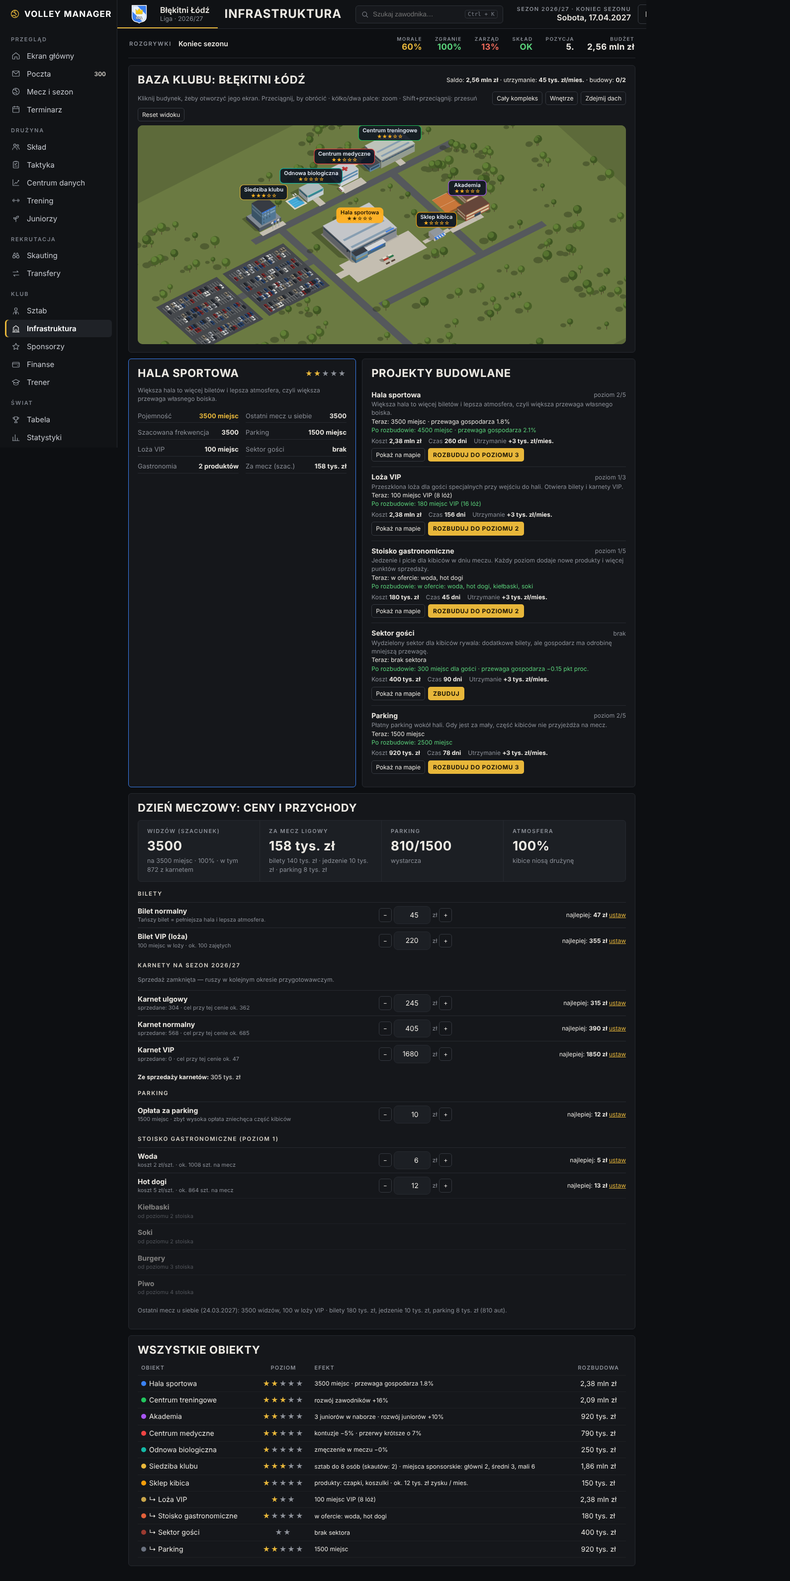
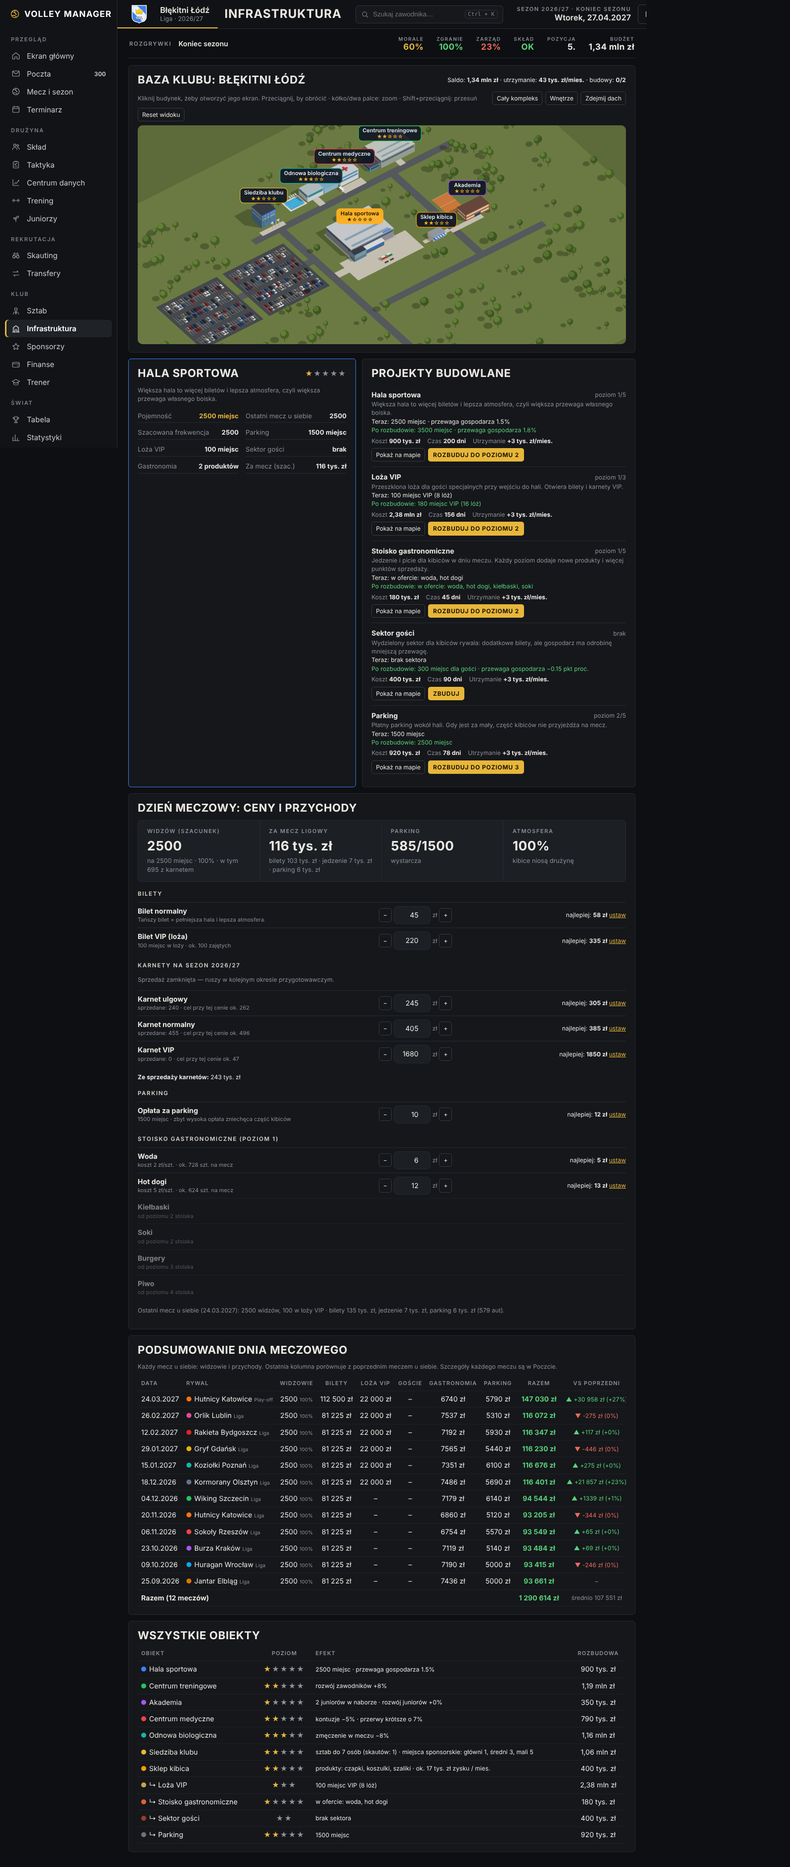
Podsumowanie dnia meczowego: mail po każdym meczu u siebie z porównaniem do poprzedniego oraz tabela meczów w Finansach i przy hali
Claude-Session: https://claude.ai/code/session_01CgYLVwwkhwgT5nMdfUNKpe

diff --git a/index.html b/index.html
@@ -557,6 +557,7 @@ small .pt,.mut .pt{font-size:9px;padding:2px 5px;min-width:26px}
 .fmws.one{grid-template-columns:1fr}.fml>.fmw,.fmr>.card{margin-top:10px}
 .fmr .fmpt-t{font-size:11px;table-layout:fixed}.fmr .fmpt-t th,.fmr .fmpt-t td{padding-left:1px;padding-right:1px}.fmr .fmpt-t th:first-child,.fmr .fmpt-t td:first-child{width:31%}.fmr .fmpt-t th:nth-child(3),.fmr .fmpt-t td:nth-child(3){width:15%}.fmr .fmpt-t th{font-size:9.5px}.fmr .fmpt-t .l{max-width:none}
 .fmz .pt,.fmsp .pt{font-size:8px;padding:1px 3px;min-width:0;letter-spacing:.02em}
+.mdt td,.mdt th{white-space:nowrap}.mdt td small{font-size:10px}
 </style></head><body><div id="app"></div>
 <script>
 'use strict';
@@ -1842,7 +1843,7 @@ function financeView(){
    <tr><td class="l">Prawa TV (${fmt(TV_ROUND)} za kolejkę)</td><td class="good">+${fmt(TV_ROUND*22)}</td></tr>
    <tr><td class="l">Mecze u siebie: bilety, jedzenie, parking (ok. ${fmt(md.tot)} za mecz)</td><td class="good">~ +${fmt(md.tot*11)}</td></tr>${kh?`<tr><td class="l">Karnety (sprzedane w tym sezonie)</td><td class="good">+${fmt(kh)}</td></tr>`:''}
    <tr><td class="l"><b>Prognoza bilansu (bez transferów i nagród)</b></td><td class="${proj<0?'bad':'good'}"><b>${proj>=0?'+':''}${fmt(proj)}</b></td></tr></tbody></table>
-   ${spFree?`<p class="small" style="color:var(--acc)">Masz ${spFree} wolnych miejsc dla sponsorów — podpisz umowy w zakładce <button class="link" onclick="go('sponsorzy')">Sponsorzy</button>, żeby poprawić bilans.</p>`:''}<p class="mut small">Pensje i sponsorzy rozliczają się co miesiąc (1. dnia), prawa TV co kolejkę ligową, bilety po każdym meczu u siebie. Nagrody za miejsce w sezonie: od 50 tys. do 1 mln zł. Lepsze wyniki podnoszą renomę, a ta podnosi sponsorów i frekwencję.</p></div>${pricesCard()}
+   ${spFree?`<p class="small" style="color:var(--acc)">Masz ${spFree} wolnych miejsc dla sponsorów — podpisz umowy w zakładce <button class="link" onclick="go('sponsorzy')">Sponsorzy</button>, żeby poprawić bilans.</p>`:''}<p class="mut small">Pensje i sponsorzy rozliczają się co miesiąc (1. dnia), prawa TV co kolejkę ligową, bilety po każdym meczu u siebie. Nagrody za miejsce w sezonie: od 50 tys. do 1 mln zł. Lepsze wyniki podnoszą renomę, a ta podnosi sponsorów i frekwencję.</p></div>${pricesCard()}${mdTableCard()}
   <div class="card"><h2>Sezon ${sLabel(S().n)}</h2><table class="cmp"><tbody>${row(f.sea)}</tbody></table>${f.prev?`<h3>Poprzedni sezon</h3><table class="cmp"><tbody>${row(f.prev)}</tbody></table>`:''}</div>
   <div class="card"><h2>Historia operacji</h2>${f.log.length?f.log.slice(0,30).map(x=>`<div class="res row"><span class="mut small">${x.d?fmtDMY(x.d):''}</span> ${esc(x.t)}<span class="sp"></span><b class="${x.a<0?'bad':'good'}">${x.a>=0?'+':''}${fmt(x.a)}</b></div>`).join(''):'<p class="mut">Brak operacji.</p>'}</div>`;
 }
@@ -3404,6 +3405,7 @@ function mailBodyHtml(m){const b=m.b||{};
   if(typeof sponsMailHtml==='function'&&/^(spons|spexp)$/.test(b.type))return sponsMailHtml(m);
   if(b.type==='offer')return offerMailHtml(m);
   if(b.type==='fin')return finMailHtml(b);
+  if(b.type==='md'&&typeof mdMailHtml==='function')return mdMailHtml(b);
   return `<p class="mtext">${esc(b.x||m.s)}</p>`;}
 function matchMailHtml(b){const T=i=>TEAMS[i];const h=b.home?b.me:b.op,a=b.home?b.op:b.me;const sw=b.home?b.sw:[b.sw[1],b.sw[0]];const sets=b.sets.map(s=>b.home?s:[s[1],s[0]]);
   const st=(l,x,y)=>`<tr><td class="l">${l}</td><td><b>${x}</b></td><td><b>${y}</b></td></tr>`;const pc2=(k,n)=>n?Math.round(k/n*100)+'%':'–';
@@ -3724,12 +3726,33 @@ function matchday(k,att,opp,est,ov){const e=ECO(),inf=myInfra(),rep=SAVE.ai[SAVE
   const orep=opp!=null&&SAVE.ai[opp]?SAVE.ai[opp].rep:50;const gs=guestSeats(inf.gosc);
   const gAtt=gs?Math.round(Math.min(gs,(60+orep*4)*clamp(Math.pow(refPrice(SAVE.team)/Math.max(5,tix),1.2),0.2,1.6)*k*(est?1:0.8+R()*0.4))):0;const guests=gAtt*tix;
   const T=att+vAtt+gAtt;const pp=ov.park!=null?ov.park:e.park;
-  const cars=Math.round(Math.min(parkSpots(inf.park),T*0.3*clamp(1.25-0.05*pp,0.1,1.2)));const parking=cars*pp;
+  const cars=Math.round(Math.min(parkSpots(inf.park),T*0.3*clamp(1.25-0.05*pp,0.1,1.2)*(est?1:0.9+R()*0.2)));const parking=cars*pp;
   const gl=[];let gas=0;const sm=0.7+0.1*inf.gastro;
-  for(const [key,n,lv,ref,cost,rate] of GAS_PR){if(inf.gastro<lv)continue;const pr=ov.gas&&ov.gas[key]!=null?ov.gas[key]:e.gas[key];const q=Math.round(T*rate*sm*clamp(Math.pow(ref/Math.max(1,pr),1.6),0.05,2.5));const pf=q*(pr-cost);gl.push({key,n,q,pr,pf});gas+=pf;}
+  for(const [key,n,lv,ref,cost,rate] of GAS_PR){if(inf.gastro<lv)continue;const pr=ov.gas&&ov.gas[key]!=null?ov.gas[key]:e.gas[key];const q=Math.round(T*rate*sm*clamp(Math.pow(ref/Math.max(1,pr),1.6),0.05,2.5)*(est?1:0.88+R()*0.24));const pf=q*(pr-cost);gl.push({key,n,q,pr,pf});gas+=pf;}
   return {att,vAtt,gAtt,cars,T,tickets,vip,guests,parking,gas,gl,tot:tickets+vip+guests+parking+gas};}
 function payMatchday(k,att,opp){const r=matchday(k,att,opp,false);money(r.tickets+r.vip+r.guests,'Bilety');money(r.gas,'Gastronomia');money(r.parking,'Parking');
-  SAVE.eco.last={...r,gl:r.gl.map(x=>({n:x.n,q:x.q,pf:x.pf})),d:today(),opp};return r;}
+  const e=ECO();const inf=myInfra();const rec={d:today(),opp,kind:k===1?'Liga':k>1?'Play-off':'Sparing',att:r.att,cap:HALA_CAP[inf.hala-1],h:k===1?karHolders().tot:0,vAtt:r.vAtt,gAtt:r.gAtt,cars:r.cars,
+    tickets:r.tickets,vip:r.vip,guests:r.guests,gas:r.gas,parking:r.parking,tot:r.tot,tix:e.tix,park:e.park,gl:r.gl.map(x=>({n:x.n,q:x.q,pr:x.pr,pf:x.pf}))};
+  e.last=rec;e.mdLog=e.mdLog||[];const prev=e.mdLog[0]||null;e.mdLog.unshift(rec);e.mdLog=e.mdLog.slice(0,60);
+  if(typeof sendMail==='function'){const dlt=prev?rec.tot-prev.tot:null;sendMail({cat:'fin',from:'Księgowość klubu',t:`Dzień meczowy: ${TEAMS[opp]?TEAMS[opp].name:'mecz u siebie'}`,s:`${rec.att.toLocaleString('pl-PL')} widzów · przychód ${fmt(rec.tot)}${dlt!=null?` (${dlt>=0?'+':''}${fmt(dlt)} wobec poprzedniego meczu)`:''}`,b:{type:'md',rec,prev},lab:'Podsumowanie dnia meczowego'});}
+  return r;}
+function mdDelta(a,b,money){if(b==null)return '<span class="mut">–</span>';const d=a-b;if(!d)return '<span class="mut">bez zmian</span>';const p=b?Math.round(d/b*100):null;return `<span class="${d>0?'good':'bad'}">${d>0?'▲ +':'▼ '}${money?fmtFull(d):d.toLocaleString('pl-PL')}${p!=null&&isFinite(p)?` (${d>0?'+':''}${p}%)`:''}</span>`;}
+function mdMailHtml(b){const r=b.rec,p=b.prev;const v=(x,m)=>m?fmtFull(x):(x||0).toLocaleString('pl-PL');
+  const row=(l,k,m)=>`<tr><td class="l">${l}</td><td><b>${v(r[k],m)}</b></td><td class="mut">${p?v(p[k],m):'–'}</td><td>${mdDelta(r[k],p?p[k]:null,m)}</td></tr>`;
+  const notes=[];if(p){if(r.tix!==p.tix)notes.push(`cena biletu ${p.tix} → ${r.tix} zł`);if(r.park!==p.park)notes.push(`parking ${p.park} → ${r.park} zł`);if(p.opp!=null&&TEAMS[p.opp])notes.push(`poprzedni mecz u siebie: ${TEAMS[p.opp].name} (${fmtDMY(p.d)})`);}
+  return `<div class="kstrip in"><div><span>Widzowie</span><b>${r.att.toLocaleString('pl-PL')}</b><small>na ${r.cap.toLocaleString('pl-PL')} miejsc · ${Math.round(r.att/r.cap*100)}%${r.h?` · ${r.h} z karnetem`:''}</small></div><div><span>Przychód z meczu</span><b class="good">${fmt(r.tot)}</b><small>${p?mdDelta(r.tot,p.tot,true):'pierwszy mecz u siebie'}</small></div><div><span>Rozgrywki</span><b>${esc(r.kind)}</b><small>${fmtDMY(r.d)}</small></div></div>
+   <div class="tw"><table><thead><tr><th class="l">Pozycja</th><th>Ten mecz</th><th>Poprzedni</th><th>Zmiana</th></tr></thead><tbody>
+   ${row('Widzowie na trybunach','att')}${r.vAtt||(p&&p.vAtt)?row('Goście w loży VIP','vAtt'):''}${r.gAtt||(p&&p.gAtt)?row('Kibice w sektorze gości','gAtt'):''}${row('Auta na parkingu','cars')}
+   ${row('Bilety','tickets',1)}${r.vip||(p&&p.vip)?row('Loża VIP','vip',1):''}${r.guests||(p&&p.guests)?row('Sektor gości','guests',1):''}${row('Gastronomia (zysk)','gas',1)}${row('Parking','parking',1)}
+   <tr><td class="l"><b>Razem</b></td><td><b class="good">${fmtFull(r.tot)}</b></td><td class="mut">${p?fmtFull(p.tot):'–'}</td><td>${mdDelta(r.tot,p?p.tot:null,true)}</td></tr></tbody></table></div>
+   ${r.gl&&r.gl.length?`<h3>Gastronomia</h3><div class="tw"><table><thead><tr><th class="l">Produkt</th><th>Sprzedane</th><th>Cena</th><th>Zysk</th><th>Zmiana sprzedaży</th></tr></thead><tbody>${r.gl.map(x=>{const q=p&&p.gl?p.gl.find(y=>y.n===x.n):null;return `<tr><td class="l">${x.n}</td><td>${x.q}</td><td>${x.pr} zł</td><td class="good">${fmtFull(x.pf)}</td><td>${q?mdDelta(x.q,q.q):'<span class="mut">nowość</span>'}</td></tr>`;}).join('')}</tbody></table></div>`:''}
+   ${notes.length?`<p class="small mut">${notes.join(' · ')}</p>`:''}`;}
+function mdTableCard(){const L=(ECO().mdLog||[]);if(!L.length)return `<div class="card"><h2>Podsumowanie dnia meczowego</h2><p class="small mut">Tabela wypełni się po pierwszym meczu u siebie.</p></div>`;
+  const sum=L.reduce((a,r)=>a+r.tot,0);
+  return `<div class="card"><h2>Podsumowanie dnia meczowego</h2><p class="small mut">Każdy mecz u siebie: widzowie i przychody. Ostatnia kolumna porównuje z poprzednim meczem u siebie. Szczegóły każdego meczu są w Poczcie.</p>
+   <div class="tw"><table class="mdt"><thead><tr><th class="l">Data</th><th class="l">Rywal</th><th>Widzowie</th><th>Bilety</th><th>Loża VIP</th><th>Goście</th><th>Gastronomia</th><th>Parking</th><th>Razem</th><th>vs poprzedni</th></tr></thead><tbody>
+   ${L.map((r,i)=>{const p=L[i+1];return `<tr><td class="l">${fmtDMY(r.d)}</td><td class="l">${r.opp!=null&&TEAMS[r.opp]?tDot(r.opp)+esc(TEAMS[r.opp].name):'—'} <small class="mut">${esc(r.kind)}</small></td><td>${r.att.toLocaleString('pl-PL')} <small class="mut">${Math.round(r.att/r.cap*100)}%</small></td><td>${fmtFull(r.tickets)}</td><td>${r.vip?fmtFull(r.vip):'–'}</td><td>${r.guests?fmtFull(r.guests):'–'}</td><td>${fmtFull(r.gas)}</td><td>${fmtFull(r.parking)}</td><td><b class="good">${fmtFull(r.tot)}</b></td><td class="small">${mdDelta(r.tot,p?p.tot:null,true)}</td></tr>`;}).join('')}
+   <tr><td class="l" colspan="8"><b>Razem (${L.length} ${L.length===1?'mecz':L.length<5?'mecze':'meczów'})</b></td><td><b class="good">${fmtFull(sum)}</b></td><td class="small mut">średnio ${fmtFull(Math.round(sum/L.length))}</td></tr></tbody></table></div></div>`;}
 // ---- najlepsze ceny (podpowiedzi) ----
 function bestOf(lo,hi,step,f){let b=lo,bv=-1e18;for(let p=lo;p<=hi;p+=step){const v=f(p);if(v>bv){bv=v;b=p;}}return b;}
 function bestVip(){return bestOf(40,600,5,p=>matchday(1,null,null,true,{vipP:p}).vip);}
@@ -3973,7 +3996,7 @@ function clubView(){
   const info=`<div class="card ipanel" style="border-color:${f.col}"><div class="row"><h2 style="margin:0">${f.n}</h2><span class="sp"></span><span class="stars">${'★'.repeat(L)}<span class="mut">${'★'.repeat(5-L)}</span></span></div>
    ${ui.tmsg?`<div class="tmsg ${ui.tmsg.ok?'ok':'no'}">${esc(ui.tmsg.t)}</div>`:''}<p class="small mut">${f.d}</p>${k==='hala'?hallStats():`<p class="small">Teraz: <b>${f.eff(L)}</b></p>`}</div>`;
   const pj=`<div class="card"><h2>Projekty budowlane</h2>${projs.map(projRow).join('')}</div>`;
-  const extra=k==='hala'?matchdayCard():k==='sklep'?shopCard():'';
+  const extra=k==='hala'?matchdayCard()+mdTableCard():k==='sklep'?shopCard():'';
   return `${head}${prog}<div class="igrid">${info}${pj}</div>${extra}
   <div class="card"><h2>Wszystkie obiekty</h2><div class="tw"><table><thead><tr><th class="l">Obiekt</th><th>Poziom</th><th class="l">Efekt</th><th>Rozbudowa</th></tr></thead><tbody>${INFRA.map(x=>`<tr class="clickrow" onclick="ui.infraSel='${x.sub||x.k}';ui.v3prev=null;v3Focus('${x.sub||x.k}');render()"><td class="l"><span class="dot" style="background:${x.col}"></span>${x.sub?'↳ ':''}${x.n}</td><td class="stars">${'★'.repeat(inf[x.k])}<span class="mut">${'★'.repeat(fMax(x)-inf[x.k])}</span></td><td class="l small">${x.eff(inf[x.k])}</td><td>${inf[x.k]<fMax(x)?fmt(upgradeCost(x,inf[x.k])):'—'}</td></tr>`).join('')}</tbody></table></div></div>`;
 }

diff --git a/src/economy.js b/src/economy.js
@@ -45,12 +45,33 @@ function matchday(k,att,opp,est,ov){const e=ECO(),inf=myInfra(),rep=SAVE.ai[SAVE
   const orep=opp!=null&&SAVE.ai[opp]?SAVE.ai[opp].rep:50;const gs=guestSeats(inf.gosc);
   const gAtt=gs?Math.round(Math.min(gs,(60+orep*4)*clamp(Math.pow(refPrice(SAVE.team)/Math.max(5,tix),1.2),0.2,1.6)*k*(est?1:0.8+R()*0.4))):0;const guests=gAtt*tix;
   const T=att+vAtt+gAtt;const pp=ov.park!=null?ov.park:e.park;
-  const cars=Math.round(Math.min(parkSpots(inf.park),T*0.3*clamp(1.25-0.05*pp,0.1,1.2)));const parking=cars*pp;
+  const cars=Math.round(Math.min(parkSpots(inf.park),T*0.3*clamp(1.25-0.05*pp,0.1,1.2)*(est?1:0.9+R()*0.2)));const parking=cars*pp;
   const gl=[];let gas=0;const sm=0.7+0.1*inf.gastro;
-  for(const [key,n,lv,ref,cost,rate] of GAS_PR){if(inf.gastro<lv)continue;const pr=ov.gas&&ov.gas[key]!=null?ov.gas[key]:e.gas[key];const q=Math.round(T*rate*sm*clamp(Math.pow(ref/Math.max(1,pr),1.6),0.05,2.5));const pf=q*(pr-cost);gl.push({key,n,q,pr,pf});gas+=pf;}
+  for(const [key,n,lv,ref,cost,rate] of GAS_PR){if(inf.gastro<lv)continue;const pr=ov.gas&&ov.gas[key]!=null?ov.gas[key]:e.gas[key];const q=Math.round(T*rate*sm*clamp(Math.pow(ref/Math.max(1,pr),1.6),0.05,2.5)*(est?1:0.88+R()*0.24));const pf=q*(pr-cost);gl.push({key,n,q,pr,pf});gas+=pf;}
   return {att,vAtt,gAtt,cars,T,tickets,vip,guests,parking,gas,gl,tot:tickets+vip+guests+parking+gas};}
 function payMatchday(k,att,opp){const r=matchday(k,att,opp,false);money(r.tickets+r.vip+r.guests,'Bilety');money(r.gas,'Gastronomia');money(r.parking,'Parking');
-  SAVE.eco.last={...r,gl:r.gl.map(x=>({n:x.n,q:x.q,pf:x.pf})),d:today(),opp};return r;}
+  const e=ECO();const inf=myInfra();const rec={d:today(),opp,kind:k===1?'Liga':k>1?'Play-off':'Sparing',att:r.att,cap:HALA_CAP[inf.hala-1],h:k===1?karHolders().tot:0,vAtt:r.vAtt,gAtt:r.gAtt,cars:r.cars,
+    tickets:r.tickets,vip:r.vip,guests:r.guests,gas:r.gas,parking:r.parking,tot:r.tot,tix:e.tix,park:e.park,gl:r.gl.map(x=>({n:x.n,q:x.q,pr:x.pr,pf:x.pf}))};
+  e.last=rec;e.mdLog=e.mdLog||[];const prev=e.mdLog[0]||null;e.mdLog.unshift(rec);e.mdLog=e.mdLog.slice(0,60);
+  if(typeof sendMail==='function'){const dlt=prev?rec.tot-prev.tot:null;sendMail({cat:'fin',from:'Księgowość klubu',t:`Dzień meczowy: ${TEAMS[opp]?TEAMS[opp].name:'mecz u siebie'}`,s:`${rec.att.toLocaleString('pl-PL')} widzów · przychód ${fmt(rec.tot)}${dlt!=null?` (${dlt>=0?'+':''}${fmt(dlt)} wobec poprzedniego meczu)`:''}`,b:{type:'md',rec,prev},lab:'Podsumowanie dnia meczowego'});}
+  return r;}
+function mdDelta(a,b,money){if(b==null)return '<span class="mut">–</span>';const d=a-b;if(!d)return '<span class="mut">bez zmian</span>';const p=b?Math.round(d/b*100):null;return `<span class="${d>0?'good':'bad'}">${d>0?'▲ +':'▼ '}${money?fmtFull(d):d.toLocaleString('pl-PL')}${p!=null&&isFinite(p)?` (${d>0?'+':''}${p}%)`:''}</span>`;}
+function mdMailHtml(b){const r=b.rec,p=b.prev;const v=(x,m)=>m?fmtFull(x):(x||0).toLocaleString('pl-PL');
+  const row=(l,k,m)=>`<tr><td class="l">${l}</td><td><b>${v(r[k],m)}</b></td><td class="mut">${p?v(p[k],m):'–'}</td><td>${mdDelta(r[k],p?p[k]:null,m)}</td></tr>`;
+  const notes=[];if(p){if(r.tix!==p.tix)notes.push(`cena biletu ${p.tix} → ${r.tix} zł`);if(r.park!==p.park)notes.push(`parking ${p.park} → ${r.park} zł`);if(p.opp!=null&&TEAMS[p.opp])notes.push(`poprzedni mecz u siebie: ${TEAMS[p.opp].name} (${fmtDMY(p.d)})`);}
+  return `<div class="kstrip in"><div><span>Widzowie</span><b>${r.att.toLocaleString('pl-PL')}</b><small>na ${r.cap.toLocaleString('pl-PL')} miejsc · ${Math.round(r.att/r.cap*100)}%${r.h?` · ${r.h} z karnetem`:''}</small></div><div><span>Przychód z meczu</span><b class="good">${fmt(r.tot)}</b><small>${p?mdDelta(r.tot,p.tot,true):'pierwszy mecz u siebie'}</small></div><div><span>Rozgrywki</span><b>${esc(r.kind)}</b><small>${fmtDMY(r.d)}</small></div></div>
+   <div class="tw"><table><thead><tr><th class="l">Pozycja</th><th>Ten mecz</th><th>Poprzedni</th><th>Zmiana</th></tr></thead><tbody>
+   ${row('Widzowie na trybunach','att')}${r.vAtt||(p&&p.vAtt)?row('Goście w loży VIP','vAtt'):''}${r.gAtt||(p&&p.gAtt)?row('Kibice w sektorze gości','gAtt'):''}${row('Auta na parkingu','cars')}
+   ${row('Bilety','tickets',1)}${r.vip||(p&&p.vip)?row('Loża VIP','vip',1):''}${r.guests||(p&&p.guests)?row('Sektor gości','guests',1):''}${row('Gastronomia (zysk)','gas',1)}${row('Parking','parking',1)}
+   <tr><td class="l"><b>Razem</b></td><td><b class="good">${fmtFull(r.tot)}</b></td><td class="mut">${p?fmtFull(p.tot):'–'}</td><td>${mdDelta(r.tot,p?p.tot:null,true)}</td></tr></tbody></table></div>
+   ${r.gl&&r.gl.length?`<h3>Gastronomia</h3><div class="tw"><table><thead><tr><th class="l">Produkt</th><th>Sprzedane</th><th>Cena</th><th>Zysk</th><th>Zmiana sprzedaży</th></tr></thead><tbody>${r.gl.map(x=>{const q=p&&p.gl?p.gl.find(y=>y.n===x.n):null;return `<tr><td class="l">${x.n}</td><td>${x.q}</td><td>${x.pr} zł</td><td class="good">${fmtFull(x.pf)}</td><td>${q?mdDelta(x.q,q.q):'<span class="mut">nowość</span>'}</td></tr>`;}).join('')}</tbody></table></div>`:''}
+   ${notes.length?`<p class="small mut">${notes.join(' · ')}</p>`:''}`;}
+function mdTableCard(){const L=(ECO().mdLog||[]);if(!L.length)return `<div class="card"><h2>Podsumowanie dnia meczowego</h2><p class="small mut">Tabela wypełni się po pierwszym meczu u siebie.</p></div>`;
+  const sum=L.reduce((a,r)=>a+r.tot,0);
+  return `<div class="card"><h2>Podsumowanie dnia meczowego</h2><p class="small mut">Każdy mecz u siebie: widzowie i przychody. Ostatnia kolumna porównuje z poprzednim meczem u siebie. Szczegóły każdego meczu są w Poczcie.</p>
+   <div class="tw"><table class="mdt"><thead><tr><th class="l">Data</th><th class="l">Rywal</th><th>Widzowie</th><th>Bilety</th><th>Loża VIP</th><th>Goście</th><th>Gastronomia</th><th>Parking</th><th>Razem</th><th>vs poprzedni</th></tr></thead><tbody>
+   ${L.map((r,i)=>{const p=L[i+1];return `<tr><td class="l">${fmtDMY(r.d)}</td><td class="l">${r.opp!=null&&TEAMS[r.opp]?tDot(r.opp)+esc(TEAMS[r.opp].name):'—'} <small class="mut">${esc(r.kind)}</small></td><td>${r.att.toLocaleString('pl-PL')} <small class="mut">${Math.round(r.att/r.cap*100)}%</small></td><td>${fmtFull(r.tickets)}</td><td>${r.vip?fmtFull(r.vip):'–'}</td><td>${r.guests?fmtFull(r.guests):'–'}</td><td>${fmtFull(r.gas)}</td><td>${fmtFull(r.parking)}</td><td><b class="good">${fmtFull(r.tot)}</b></td><td class="small">${mdDelta(r.tot,p?p.tot:null,true)}</td></tr>`;}).join('')}
+   <tr><td class="l" colspan="8"><b>Razem (${L.length} ${L.length===1?'mecz':L.length<5?'mecze':'meczów'})</b></td><td><b class="good">${fmtFull(sum)}</b></td><td class="small mut">średnio ${fmtFull(Math.round(sum/L.length))}</td></tr></tbody></table></div></div>`;}
 // ---- najlepsze ceny (podpowiedzi) ----
 function bestOf(lo,hi,step,f){let b=lo,bv=-1e18;for(let p=lo;p<=hi;p+=step){const v=f(p);if(v>bv){bv=v;b=p;}}return b;}
 function bestVip(){return bestOf(40,600,5,p=>matchday(1,null,null,true,{vipP:p}).vip);}

diff --git a/src/manage.js b/src/manage.js
@@ -259,7 +259,7 @@ function financeView(){
    <tr><td class="l">Prawa TV (${fmt(TV_ROUND)} za kolejkę)</td><td class="good">+${fmt(TV_ROUND*22)}</td></tr>
    <tr><td class="l">Mecze u siebie: bilety, jedzenie, parking (ok. ${fmt(md.tot)} za mecz)</td><td class="good">~ +${fmt(md.tot*11)}</td></tr>${kh?`<tr><td class="l">Karnety (sprzedane w tym sezonie)</td><td class="good">+${fmt(kh)}</td></tr>`:''}
    <tr><td class="l"><b>Prognoza bilansu (bez transferów i nagród)</b></td><td class="${proj<0?'bad':'good'}"><b>${proj>=0?'+':''}${fmt(proj)}</b></td></tr></tbody></table>
-   ${spFree?`<p class="small" style="color:var(--acc)">Masz ${spFree} wolnych miejsc dla sponsorów — podpisz umowy w zakładce <button class="link" onclick="go('sponsorzy')">Sponsorzy</button>, żeby poprawić bilans.</p>`:''}<p class="mut small">Pensje i sponsorzy rozliczają się co miesiąc (1. dnia), prawa TV co kolejkę ligową, bilety po każdym meczu u siebie. Nagrody za miejsce w sezonie: od 50 tys. do 1 mln zł. Lepsze wyniki podnoszą renomę, a ta podnosi sponsorów i frekwencję.</p></div>${pricesCard()}
+   ${spFree?`<p class="small" style="color:var(--acc)">Masz ${spFree} wolnych miejsc dla sponsorów — podpisz umowy w zakładce <button class="link" onclick="go('sponsorzy')">Sponsorzy</button>, żeby poprawić bilans.</p>`:''}<p class="mut small">Pensje i sponsorzy rozliczają się co miesiąc (1. dnia), prawa TV co kolejkę ligową, bilety po każdym meczu u siebie. Nagrody za miejsce w sezonie: od 50 tys. do 1 mln zł. Lepsze wyniki podnoszą renomę, a ta podnosi sponsorów i frekwencję.</p></div>${pricesCard()}${mdTableCard()}
   <div class="card"><h2>Sezon ${sLabel(S().n)}</h2><table class="cmp"><tbody>${row(f.sea)}</tbody></table>${f.prev?`<h3>Poprzedni sezon</h3><table class="cmp"><tbody>${row(f.prev)}</tbody></table>`:''}</div>
   <div class="card"><h2>Historia operacji</h2>${f.log.length?f.log.slice(0,30).map(x=>`<div class="res row"><span class="mut small">${x.d?fmtDMY(x.d):''}</span> ${esc(x.t)}<span class="sp"></span><b class="${x.a<0?'bad':'good'}">${x.a>=0?'+':''}${fmt(x.a)}</b></div>`).join(''):'<p class="mut">Brak operacji.</p>'}</div>`;
 }

diff --git a/src/bld3d.js b/src/bld3d.js
@@ -186,7 +186,7 @@ function clubView(){
   const info=`<div class="card ipanel" style="border-color:${f.col}"><div class="row"><h2 style="margin:0">${f.n}</h2><span class="sp"></span><span class="stars">${'★'.repeat(L)}<span class="mut">${'★'.repeat(5-L)}</span></span></div>
    ${ui.tmsg?`<div class="tmsg ${ui.tmsg.ok?'ok':'no'}">${esc(ui.tmsg.t)}</div>`:''}<p class="small mut">${f.d}</p>${k==='hala'?hallStats():`<p class="small">Teraz: <b>${f.eff(L)}</b></p>`}</div>`;
   const pj=`<div class="card"><h2>Projekty budowlane</h2>${projs.map(projRow).join('')}</div>`;
-  const extra=k==='hala'?matchdayCard():k==='sklep'?shopCard():'';
+  const extra=k==='hala'?matchdayCard()+mdTableCard():k==='sklep'?shopCard():'';
   return `${head}${prog}<div class="igrid">${info}${pj}</div>${extra}
   <div class="card"><h2>Wszystkie obiekty</h2><div class="tw"><table><thead><tr><th class="l">Obiekt</th><th>Poziom</th><th class="l">Efekt</th><th>Rozbudowa</th></tr></thead><tbody>${INFRA.map(x=>`<tr class="clickrow" onclick="ui.infraSel='${x.sub||x.k}';ui.v3prev=null;v3Focus('${x.sub||x.k}');render()"><td class="l"><span class="dot" style="background:${x.col}"></span>${x.sub?'↳ ':''}${x.n}</td><td class="stars">${'★'.repeat(inf[x.k])}<span class="mut">${'★'.repeat(fMax(x)-inf[x.k])}</span></td><td class="l small">${x.eff(inf[x.k])}</td><td>${inf[x.k]<fMax(x)?fmt(upgradeCost(x,inf[x.k])):'—'}</td></tr>`).join('')}</tbody></table></div></div>`;
 }

diff --git a/src/mail.js b/src/mail.js
@@ -85,6 +85,7 @@ function mailBodyHtml(m){const b=m.b||{};
   if(typeof sponsMailHtml==='function'&&/^(spons|spexp)$/.test(b.type))return sponsMailHtml(m);
   if(b.type==='offer')return offerMailHtml(m);
   if(b.type==='fin')return finMailHtml(b);
+  if(b.type==='md'&&typeof mdMailHtml==='function')return mdMailHtml(b);
   return `<p class="mtext">${esc(b.x||m.s)}</p>`;}
 function matchMailHtml(b){const T=i=>TEAMS[i];const h=b.home?b.me:b.op,a=b.home?b.op:b.me;const sw=b.home?b.sw:[b.sw[1],b.sw[0]];const sets=b.sets.map(s=>b.home?s:[s[1],s[0]]);
   const st=(l,x,y)=>`<tr><td class="l">${l}</td><td><b>${x}</b></td><td><b>${y}</b></td></tr>`;const pc2=(k,n)=>n?Math.round(k/n*100)+'%':'–';

diff --git a/src/head.html b/src/head.html
@@ -550,5 +550,6 @@ small .pt,.mut .pt{font-size:9px;padding:2px 5px;min-width:26px}
 .fmws.one{grid-template-columns:1fr}.fml>.fmw,.fmr>.card{margin-top:10px}
 .fmr .fmpt-t{font-size:11px;table-layout:fixed}.fmr .fmpt-t th,.fmr .fmpt-t td{padding-left:1px;padding-right:1px}.fmr .fmpt-t th:first-child,.fmr .fmpt-t td:first-child{width:31%}.fmr .fmpt-t th:nth-child(3),.fmr .fmpt-t td:nth-child(3){width:15%}.fmr .fmpt-t th{font-size:9.5px}.fmr .fmpt-t .l{max-width:none}
 .fmz .pt,.fmsp .pt{font-size:8px;padding:1px 3px;min-width:0;letter-spacing:.02em}
+.mdt td,.mdt th{white-space:nowrap}.mdt td small{font-size:10px}
 </style></head><body><div id="app"></div>
 <script>

diff --git a/sw.js b/sw.js
@@ -1,5 +1,5 @@
 // Volley Manager — service worker (gra działa offline po pierwszym otwarciu)
-const CACHE='volley-manager-v48';
+const CACHE='volley-manager-v49';
 const FILES=['./','./index.html','./manifest.webmanifest','./icon-192.png','./icon-512.png','./icon-maskable-512.png','./apple-touch-icon.png'];
 self.addEventListener('install',e=>{e.waitUntil(caches.open(CACHE).then(c=>c.addAll(FILES)).then(()=>self.skipWaiting()));});
 self.addEventListener('activate',e=>{e.waitUntil(caches.keys().then(ks=>Promise.all(ks.filter(k=>k!==CACHE).map(k=>caches.delete(k)))).then(()=>self.clients.claim()));});

diff --git a/README.md b/README.md
@@ -34,4 +34,4 @@ Po pierwszym otwarciu gra działa bez internetu.
 
 ## Dla twórcy
 Źródła są w katalogu `src/`. Po zmianach zbuduj grę: `python src/build.py` (tworzy `index.html`).
-Przy większych aktualizacjach podbij nazwę cache w `sw.js` (np. `volley-manager-v48` → `v49`), żeby telefony szybciej pobrały nową wersję.
+Przy większych aktualizacjach podbij nazwę cache w `sw.js` (np. `volley-manager-v49` → `v50`), żeby telefony szybciej pobrały nową wersję.
